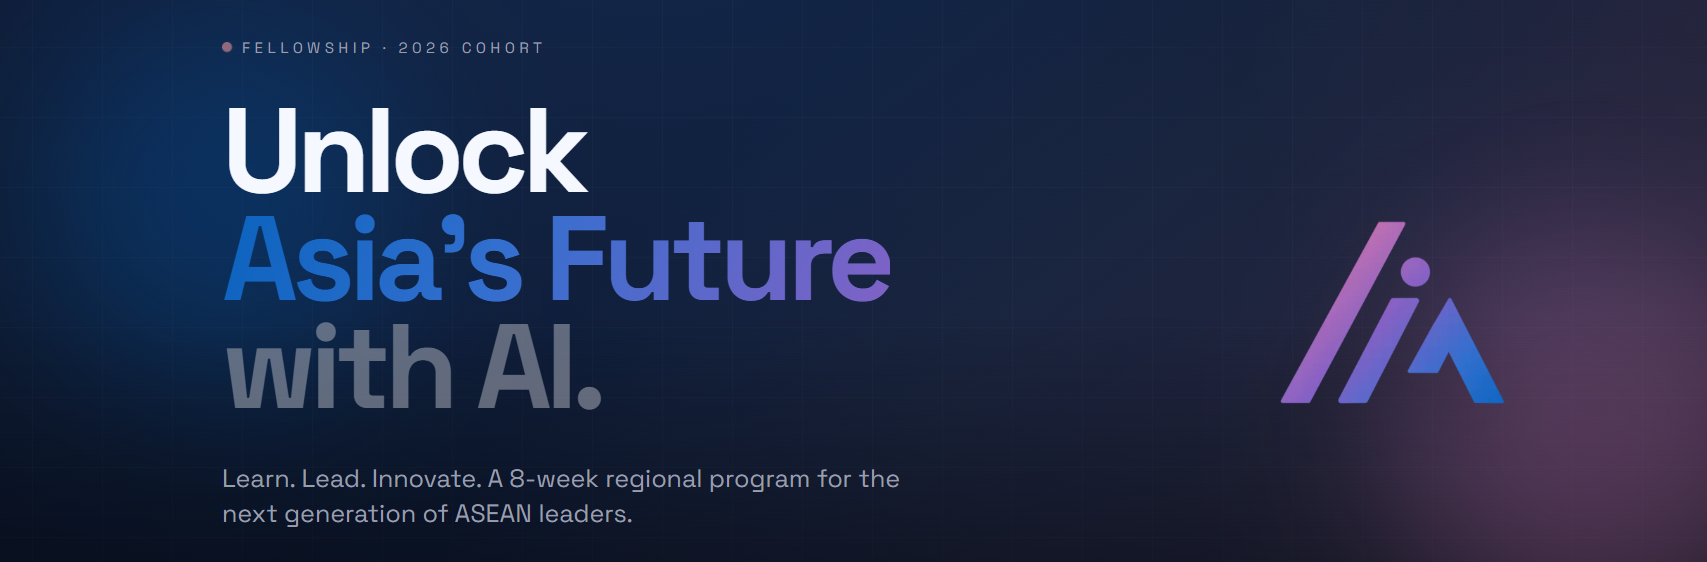
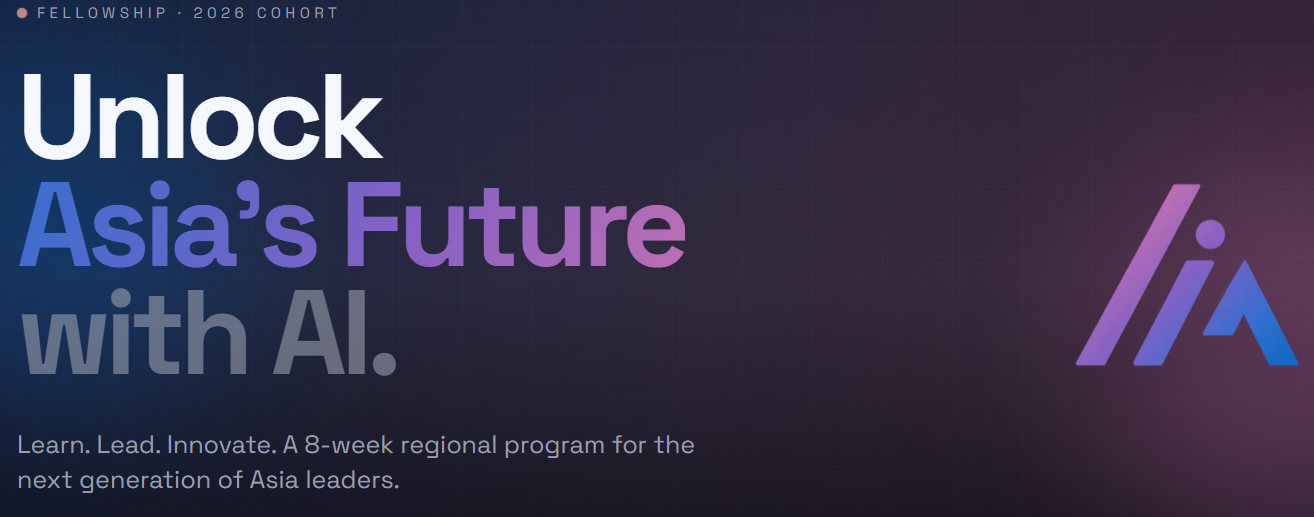
fix: url mismatch for aiforasia

diff --git a/app/layout.tsx b/app/layout.tsx
@@ -20,7 +20,7 @@ export const viewport: Viewport = {
 };
 
 export const metadata: Metadata = {
-  metadataBase: new URL("https://ai-for-asia.vercel.app"),
+  metadataBase: new URL("https://aiforasia.vercel.app"),
   title: {
     default: "AI for ASIA",
     template: "%s | AI for ASIA",
@@ -38,7 +38,7 @@ export const metadata: Metadata = {
 openGraph: {
     type: "website",
     locale: "en_US",
-    url: "https://ai-for-asia.vercel.app",
+    url: "https://aiforasia.vercel.app",
     siteName: "AI for ASIA",
     title: "AI for ASIA — Learn, Lead, Innovate with AI",
     description:
@@ -90,8 +90,8 @@ export default function RootLayout({
           "@context": "https://schema.org",
           "@type": "Organization",
           name: "AI for ASIA",
-          url: "https://ai-for-asia.vercel.app",
-          logo: "https://ai-for-asia.vercel.app/og-image.png",
+          url: "https://aiforasia.vercel.app",
+          logo: "https://aiforasia.vercel.app/og-image.png",
         })}
       </Script>
       <Script
@@ -103,10 +103,10 @@ export default function RootLayout({
           "@context": "https://schema.org",
           "@type": "WebSite",
           name: "AI for ASIA",
-          url: "https://ai-for-asia.vercel.app",
+          url: "https://aiforasia.vercel.app",
           potentialAction: {
             "@type": "SearchAction",
-            target: "https://ai-for-asia.vercel.app?q={search_term_string}",
+            target: "https://aiforasia.vercel.app?q={search_term_string}",
             "query-input": "required name=search_term_string",
           },
         })}